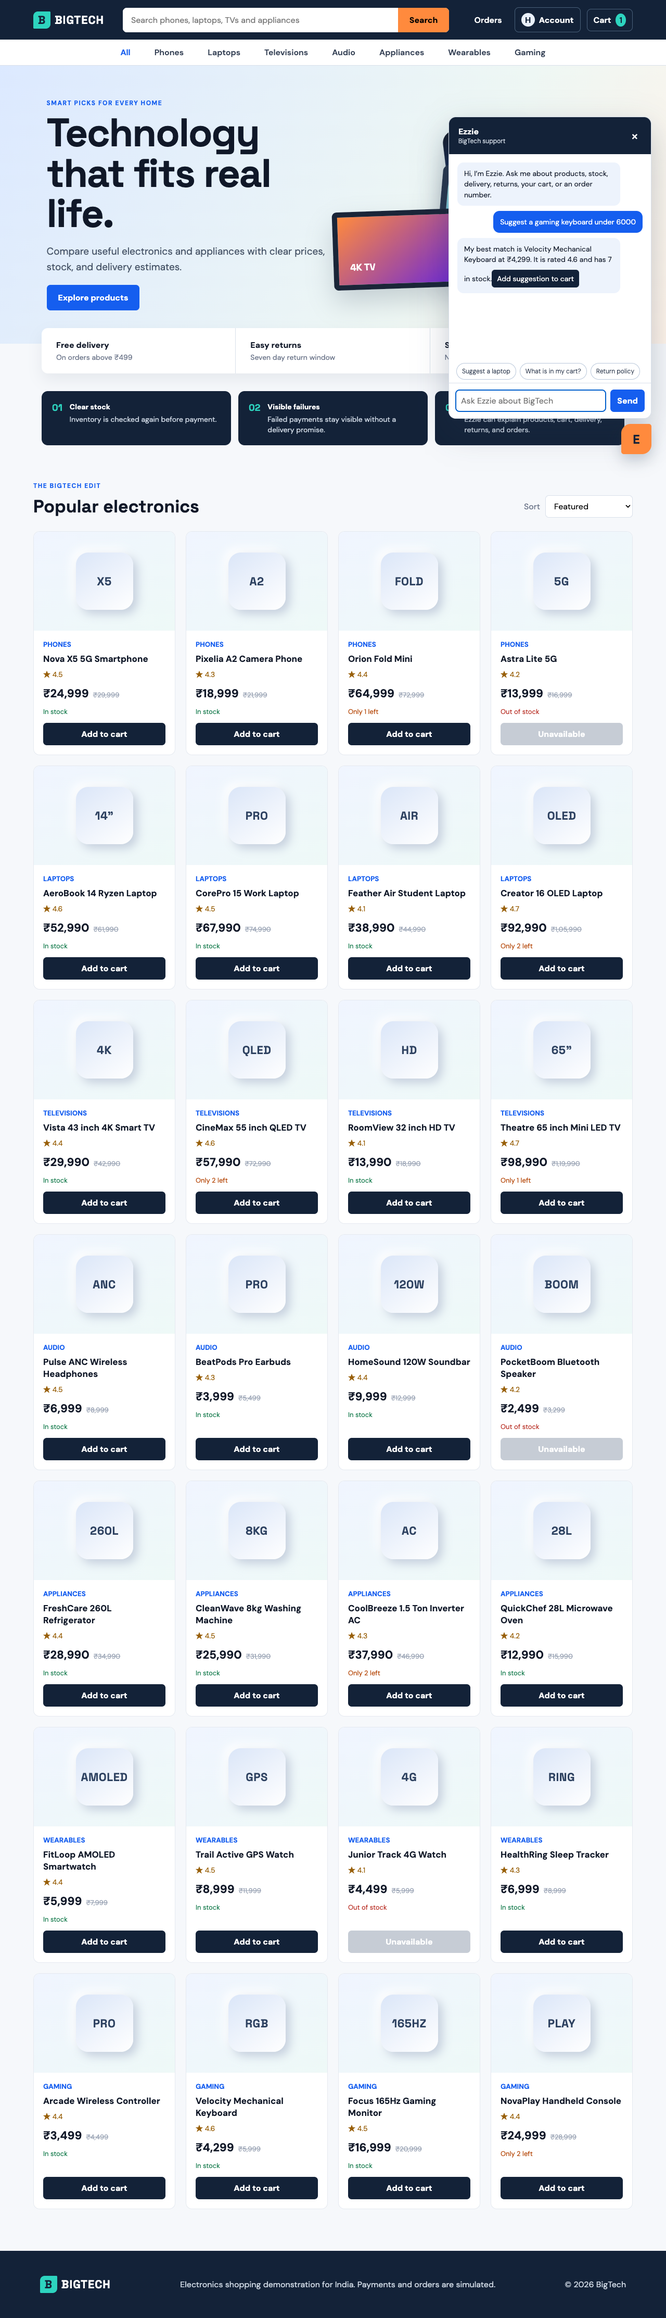
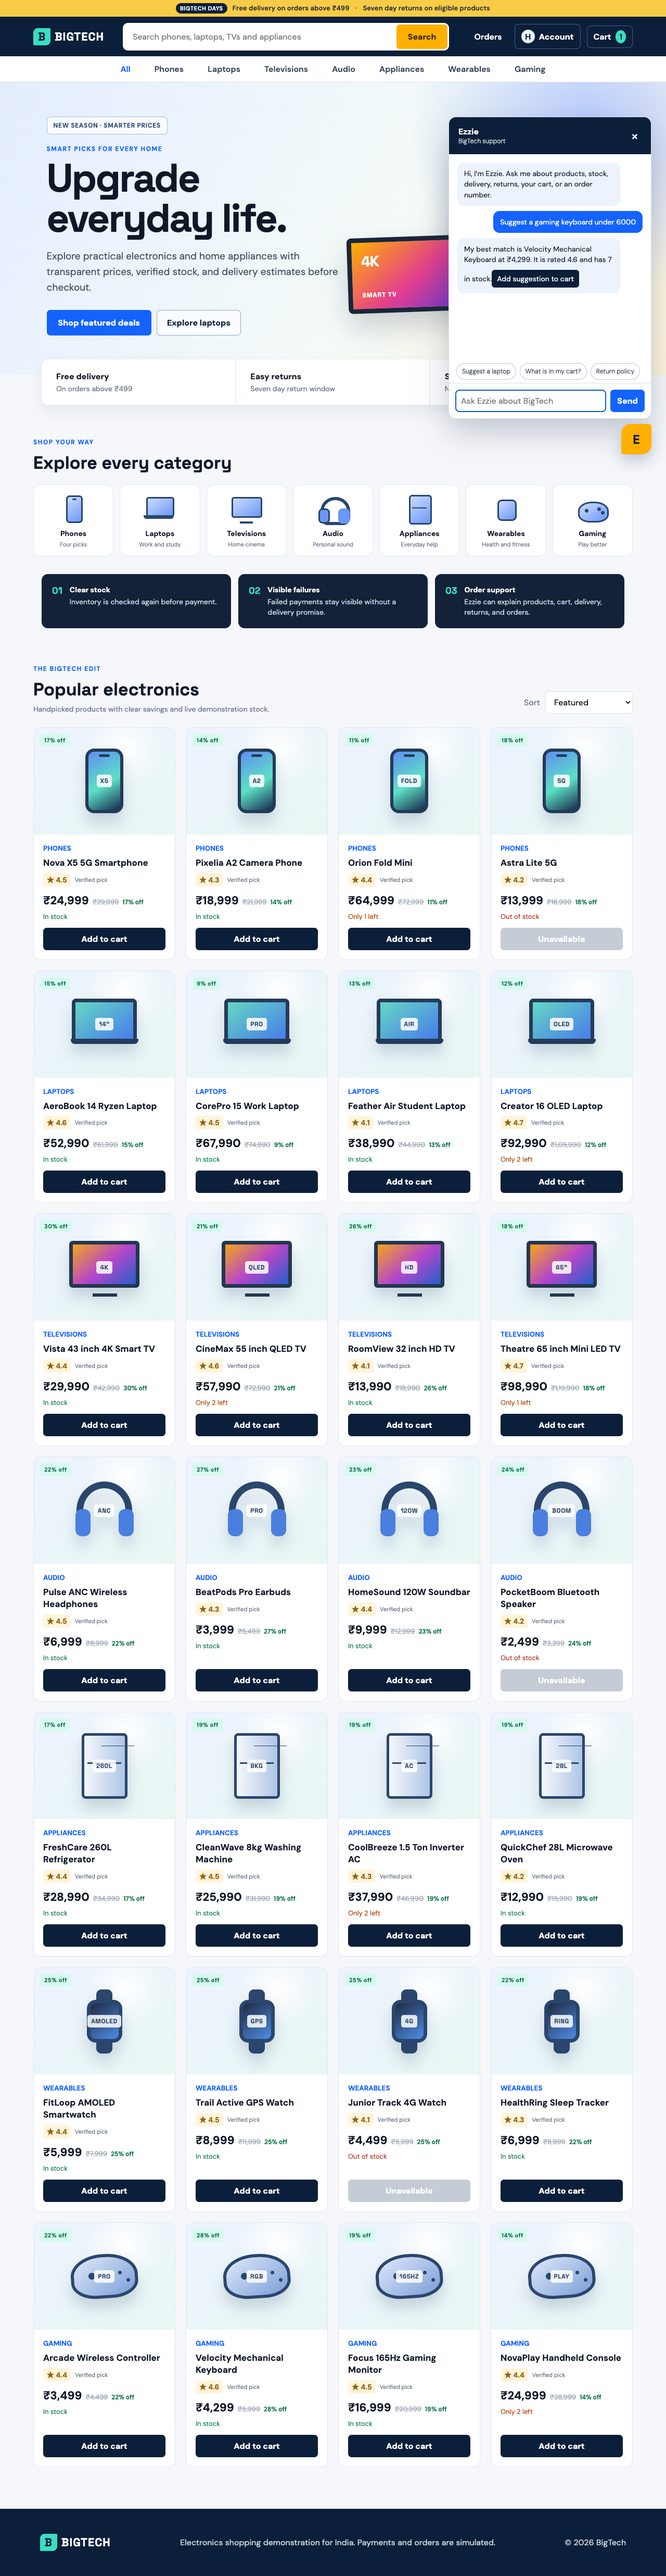
Refresh BigTech portfolio evidence

Changed region(s): [[0.0, 0.0, 1.0, 0.9993]]

diff --git a/README.md b/README.md
@@ -29,7 +29,7 @@
     <td width="58%"><a href="https://github.com/harikareddy9878-rgb/caremap-facility-analytics"><img src="assets/caremap-dashboard.png" width="100%" alt="CareMap health facility dashboard" /></a></td>
     <td width="42%" valign="top">
       <p><strong>The issue</strong><br/>A nationwide directory is large enough that duplicate facilities, invalid coordinates, and inconsistent labels can distort a facility access view.</p>
-      <p><strong>The build</strong><br/>A Python acquisition and quality pipeline, an analysis table, validation tests, DAX measures, a four page Power BI build guide, and a ten page report.</p>
+      <p><strong>The build</strong><br/>A Python acquisition and quality pipeline, an analysis table, validation tests, DAX measures, a four page Power BI build guide, and a twelve page research report.</p>
       <p><strong>The outcome</strong><br/>200,438 source records became 193,783 clean records after 6,655 duplicates were removed. The final model covers 36 state and union territory labels, 688 state and district combinations, and 99.7% mapped records.</p>
       <p><a href="https://github.com/harikareddy9878-rgb/caremap-facility-analytics"><strong>Repository</strong></a> · <a href="https://github.com/harikareddy9878-rgb/caremap-facility-analytics/blob/main/reports/CareMap_Facility_Analytics_Report.pdf">PDF report</a></p>
     </td>
@@ -71,7 +71,7 @@
     <td width="42%" valign="top">
       <p><strong>The issue</strong><br/>A useful retail demonstration needs consistent behaviour from search and stock through cart, payment outcome, delivery, orders, account, and support.</p>
       <p><strong>The build</strong><br/>A responsive Indian electronics experience, an independently testable Java Spring Boot order service, and Ezzie for product, cart, delivery, return, and order questions.</p>
-      <p><strong>The outcome</strong><br/>Twenty eight products across seven categories support in stock, low stock, unavailable, successful payment, failed payment, and saved order scenarios. Seven frontend tests, three Java tests, and a production browser journey pass.</p>
+      <p><strong>The outcome</strong><br/>Twenty eight products across seven categories support in stock, low stock, unavailable, successful payment, failed payment, and saved order scenarios. Seven frontend tests, three Java tests, and a production browser journey pass. The Vercel storefront now includes category specific product artwork and responsive discovery.</p>
       <p><a href="https://bigtech-electronics-store.vercel.app/"><strong>Live project</strong></a> · <a href="https://github.com/harikareddy9878-rgb/bigtech-electronics-store">Source</a> · <a href="https://github.com/harikareddy9878-rgb/bigtech-electronics-store/blob/main/reports/BigTech_Electronics_Store_Report.pdf">PDF report</a></p>
     </td>
     <td width="58%"><a href="https://bigtech-electronics-store.vercel.app/"><img src="assets/bigtech-ezzie-assistant.png" width="100%" alt="BigTech electronics store with Ezzie support" /></a></td>
